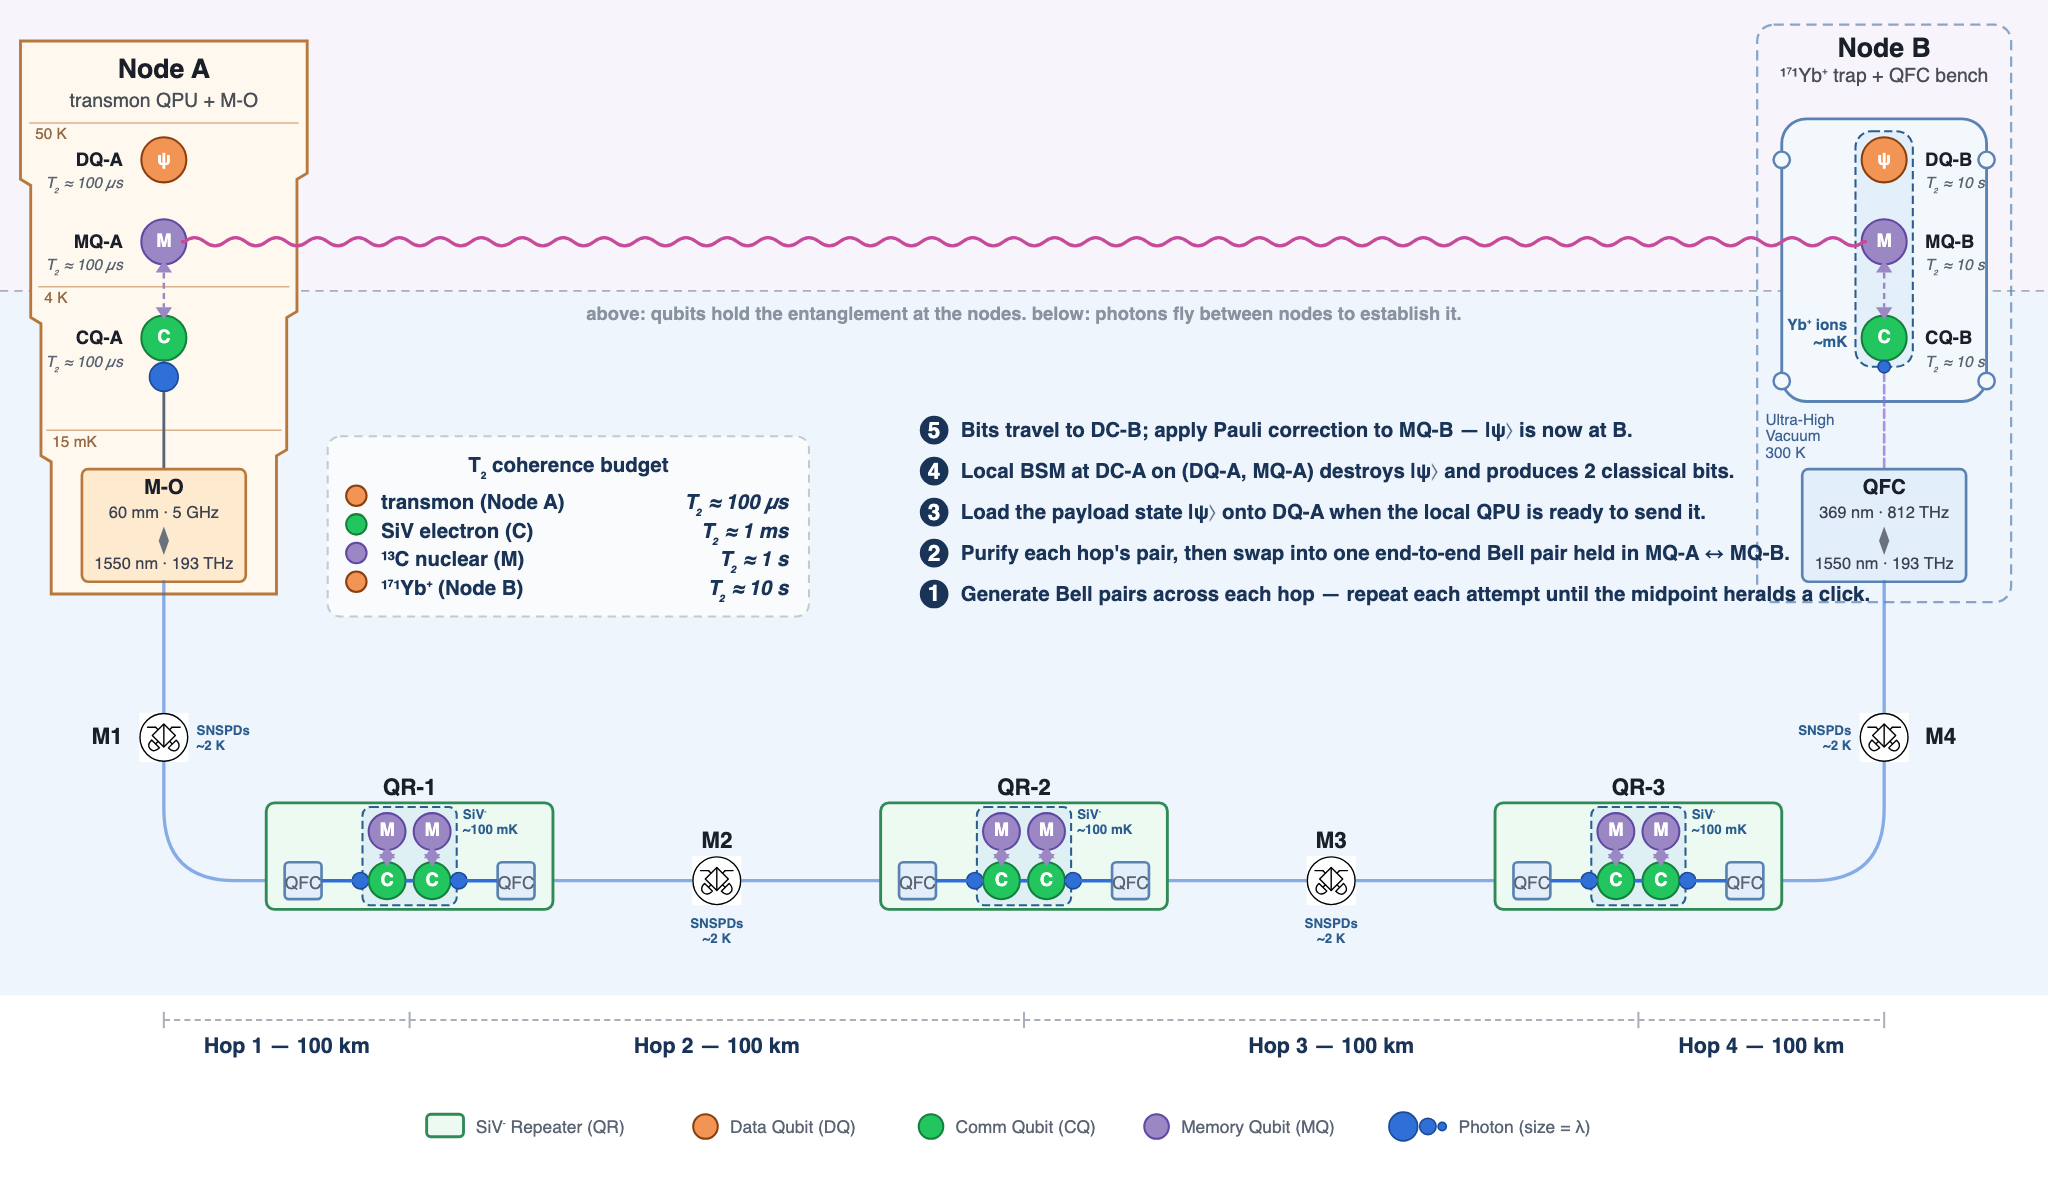
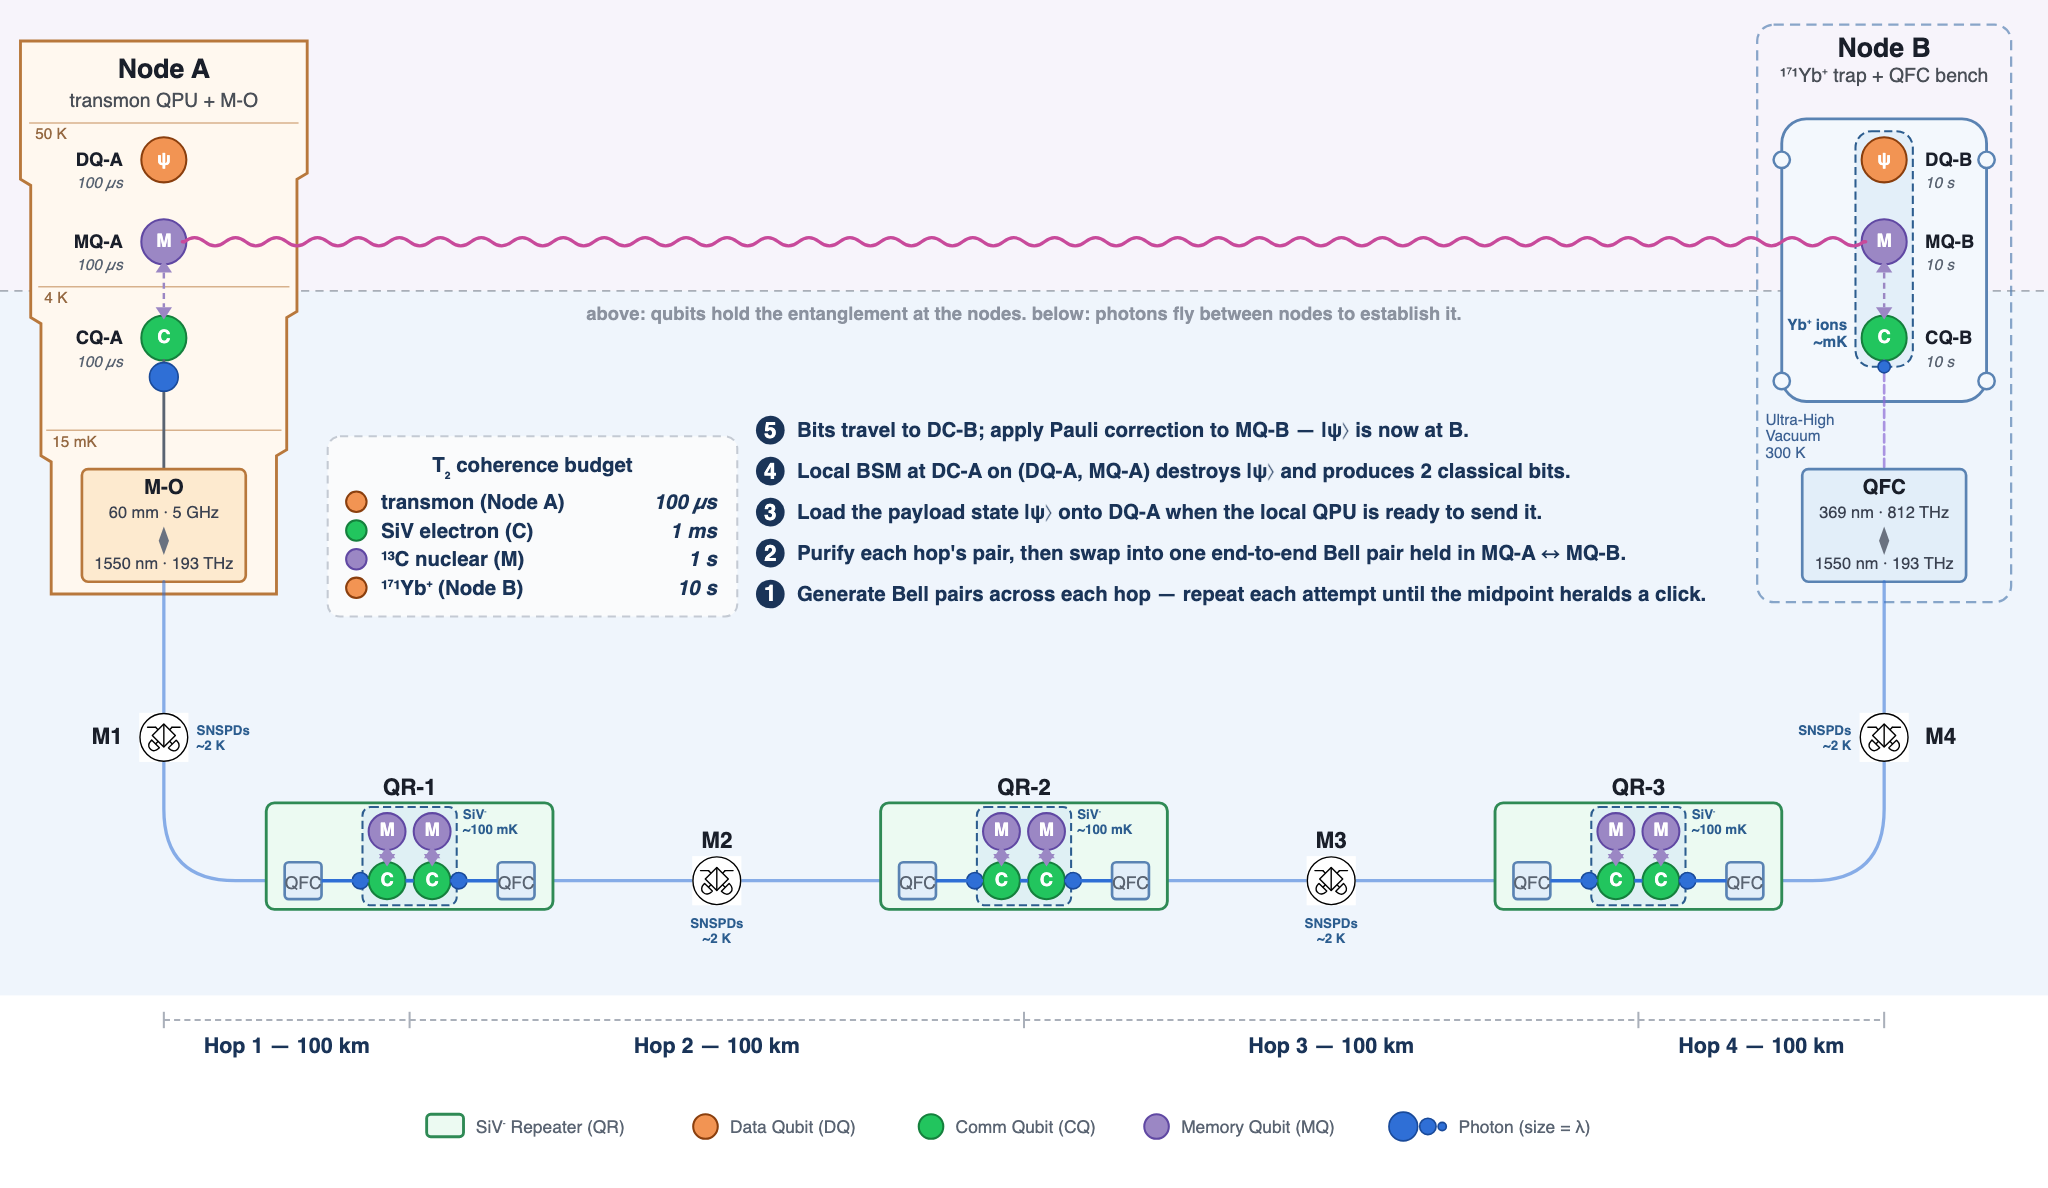
4hop-topology: drop redundant 'T₂ ≈' prefix; narrower panel, recentre steps
The panel title 'T₂ coherence budget' already establishes which
dimension the numbers carry, so the per-row and per-qubit 'T₂ ≈'
prefix was duplicative. Show just the bare values.

- Per-qubit tags now read '100 µs' / '10 s' (instead of 'T₂ ≈ 100 µs').
- Panel value column now reads '100 µs' (instead of 'T₂ ≈ 100 µs').
- Coloured dot in each row centred on the text baseline so the swatch
  aligns vertically with the label/value text.
- Panel narrowed from 235 → 200 px wide now that values are shorter.
- 5-step block re-centred from x=660 → 580 to use the freed space.

diff --git a/scripts/diagrams/topology_4hop.py b/scripts/diagrams/topology_4hop.py
@@ -255,12 +255,11 @@ def _node_A(cv: Canvas) -> None:
     # SWAP between MQ and CQ
     C.swap_arrow(cv, NODE_A_CX, Y_MQ + 11, Y_CQ - 11)
 
-    # T₂ tags under each Node A qubit's side label — same style as the
-    # cold-zone temperature tags so they read as 'small operating-spec
-    # annotations'. End-anchored, matching the side labels' anchor.
-    for y, t2 in ((Y_DQ, "T₂ ≈ 100 µs"), (Y_MQ, "T₂ ≈ 100 µs"), (Y_CQ, "T₂ ≈ 100 µs")):
-        cv.text(NODE_A_CX - 20, y + 14, t2, cls="t2-tag", font_size=7.5,
-                anchor="end", name=f"A-t2@{y}")
+    # Per-qubit lifetime tag — bare value, no 'T₂ ≈' prefix (the panel
+    # title already establishes that the dimension being shown is T₂).
+    for y in (Y_DQ, Y_MQ, Y_CQ):
+        cv.text(NODE_A_CX - 20, y + 14, "100 µs", cls="t2-tag",
+                font_size=7.5, anchor="end", name=f"A-t2@{y}")
 
     # CQ-A microwave link to M-O
     cv.line(
@@ -374,13 +373,10 @@ def _node_B(cv: Canvas) -> None:
     )
     C.swap_arrow(cv, NODE_B_CX, Y_MQ + 11, Y_CQ - 11)
 
-    # T₂ tags under each Node B qubit's side label — start-anchored to
-    # match. Yb⁺ hyperfine coherence is platform-uniform across DQ/MQ/CQ
-    # (all the same ion); the contrast a reader takes away is across
-    # nodes, not within Node B.
-    for y, t2 in ((Y_DQ, "T₂ ≈ 10 s"), (Y_MQ, "T₂ ≈ 10 s"), (Y_CQ, "T₂ ≈ 10 s")):
-        cv.text(NODE_B_CX + 20, y + 14, t2, cls="t2-tag", font_size=7.5,
-                anchor="start", name=f"B-t2@{y}")
+    # Per-qubit lifetime tag — bare value, same convention as Node A.
+    for y in (Y_DQ, Y_MQ, Y_CQ):
+        cv.text(NODE_B_CX + 20, y + 14, "10 s", cls="t2-tag",
+                font_size=7.5, anchor="start", name=f"B-t2@{y}")
 
     # UV link from CQ-B (via chamber viewport) to the QFC bench below
     cv.line(
@@ -566,7 +562,7 @@ def _protocol_steps(cv: Canvas) -> None:
     # inset panel can sit to its left without overlap. centre_y picks the
     # vertical band a bit higher to leave breathing room below the dashed
     # matter-photon interface line.
-    centre_x = 660
+    centre_x = 580
     centre_y = 250
     # Width heuristic — the rendered prose is narrower than the svglib
     # collision-bbox default (0.55), so an over-estimated width pulls the
@@ -603,7 +599,9 @@ def _lifetime_panel(cv: Canvas) -> None:
     typical operating numbers that fit a procurement-grade conversation."""
     # Start past Node A's chandelier outline (which extends to ~x=150)
     # with a small breathing margin so the panel doesn't impinge on it.
-    px, py, pw, ph = 160, 213, 235, 88
+    # Width is sized for the post-prefix-drop content (bare values, no
+    # 'T₂ ≈' prefix on each row).
+    px, py, pw, ph = 160, 213, 200, 88
     cv.rect(
         px, py, pw, ph, rx=6,
         style="fill: #fafbfc; stroke: #c4cad3; stroke-width: 1; stroke-dasharray: 4 3",
@@ -624,14 +622,17 @@ def _lifetime_panel(cv: Canvas) -> None:
     y0, dy = py + 32, 14
     for i, (role, label, value) in enumerate(rows):
         y = y0 + i * dy
-        cv.circle(px + 14, y - 3, 5, cls=role, name=f"lt-sw-{i}")
+        # Dot centred on the text baseline (the text is drawn at y with
+        # dominant-baseline central from .step-txt CSS, so the dot's
+        # geometric centre should also be at y).
+        cv.circle(px + 14, y, 5, cls=role, name=f"lt-sw-{i}")
         cv.text(
             px + 26, y, label,
             cls="step-txt", font_size=9.5, anchor="start",
             name=f"lt-lbl-{i}",
         )
         cv.text(
-            px + pw - 10, y, f"T₂ ≈ {value}",
+            px + pw - 10, y, value,
             cls="step-txt", font_size=9.5, anchor="end",
             style="font-style: italic",
             name=f"lt-val-{i}",
